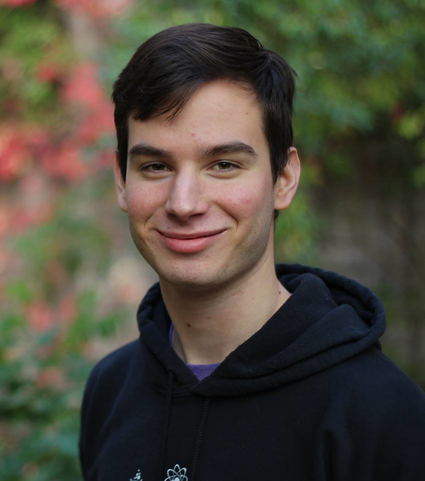
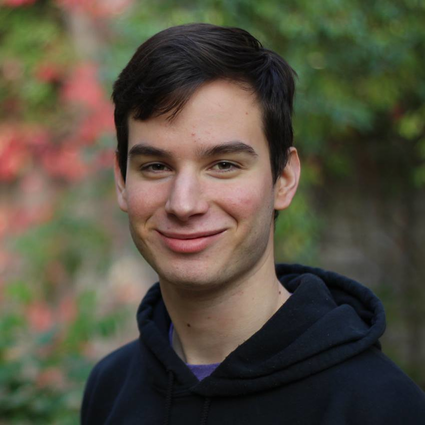
Updated picture and added project descriptions
Made the picture a square so that it's drawn as a circle instead of an
oval. Added project descriptions too.

diff --git a/index.html b/index.html
@@ -89,7 +89,7 @@
         <div class="container">
             <div class="row text-center">
                 <div class="col-lg-10 col-lg-offset-1">
-                    <a href="resume.pdf" class="btn btn-dark btn-lg">Resume</a>
+                    <a href="resume.pdf" class="btn btn-dark btn-lg" target="_blank">Resume</a>
                     <!-- /.row (nested) -->
                 </div>
                 <!-- /.col-lg-10 -->
@@ -112,6 +112,7 @@
                                 <a href="https://github.com/AgostonSzepessy/rise-of-oxshan" target="_blank">
                                     <img class="img-portfolio img-responsive" src="img/rise-of-oxshan.png">
                                 </a>
+                                <p><strong>Rise of Oxshan</strong>: A platformer written in JavaScript. <a href="rise-of-oxshan/">Play it here.</a></p>
                             </div>
                         </div>
                         <div class="col-md-6">
@@ -119,6 +120,7 @@
                                 <a href="https://github.com/AgostonSzepessy/battle-of-oxshan" target="_blank">
                                     <img class="img-portfolio img-responsive" src="img/battle-of-oxshan.png">
                                 </a>
+                                <p><strong>Battle of Oxshan</strong>: A game written in C++ using the SFML library where the player takes control of a wizard and faces waves on enemies.</p>
                             </div>
                         </div>
                         <div class="col-md-6">
@@ -126,6 +128,7 @@
                                 <a href="https://github.com/AgostonSzepessy/htn-alarmapp" target="_blank">
                                     <img class="img-portfolio img-responsive" src="img/android.png">
                                 </a>
+                                <p><strong>Hack the North 2016</strong>:An Android alarm app that tracks a person's location and is only disabled after they have reached a preset location.</p>
                             </div>
                         </div>
                         <div class="col-md-6">
@@ -133,6 +136,7 @@
                                 <a href="https://github.com/AgostonSzepessy/tilemap-editor" target="_blank">
                                     <img class="img-portfolio img-responsive" src="img/tile-map-editor.png">
                                 </a>
+                                <p><strong>Level Editor</strong>: A 2D level editor written in Java using Swing. Allows the placement of tiles and object layers.</p>
                             </div>
                         </div>
                     </div>
@@ -142,6 +146,7 @@
                                 <a href="https://github.com/servo/servo" target="_blank">
                                     <img class="img-portfolio img-responsive" src="img/servo.png">
                                 </a>
+                                <p><strong>Servo</strong>: An open source project by Mozilla Research written mostly in Rust.</p>
                             </div>
                     </div>
                     <!-- /.row (nested) -->
